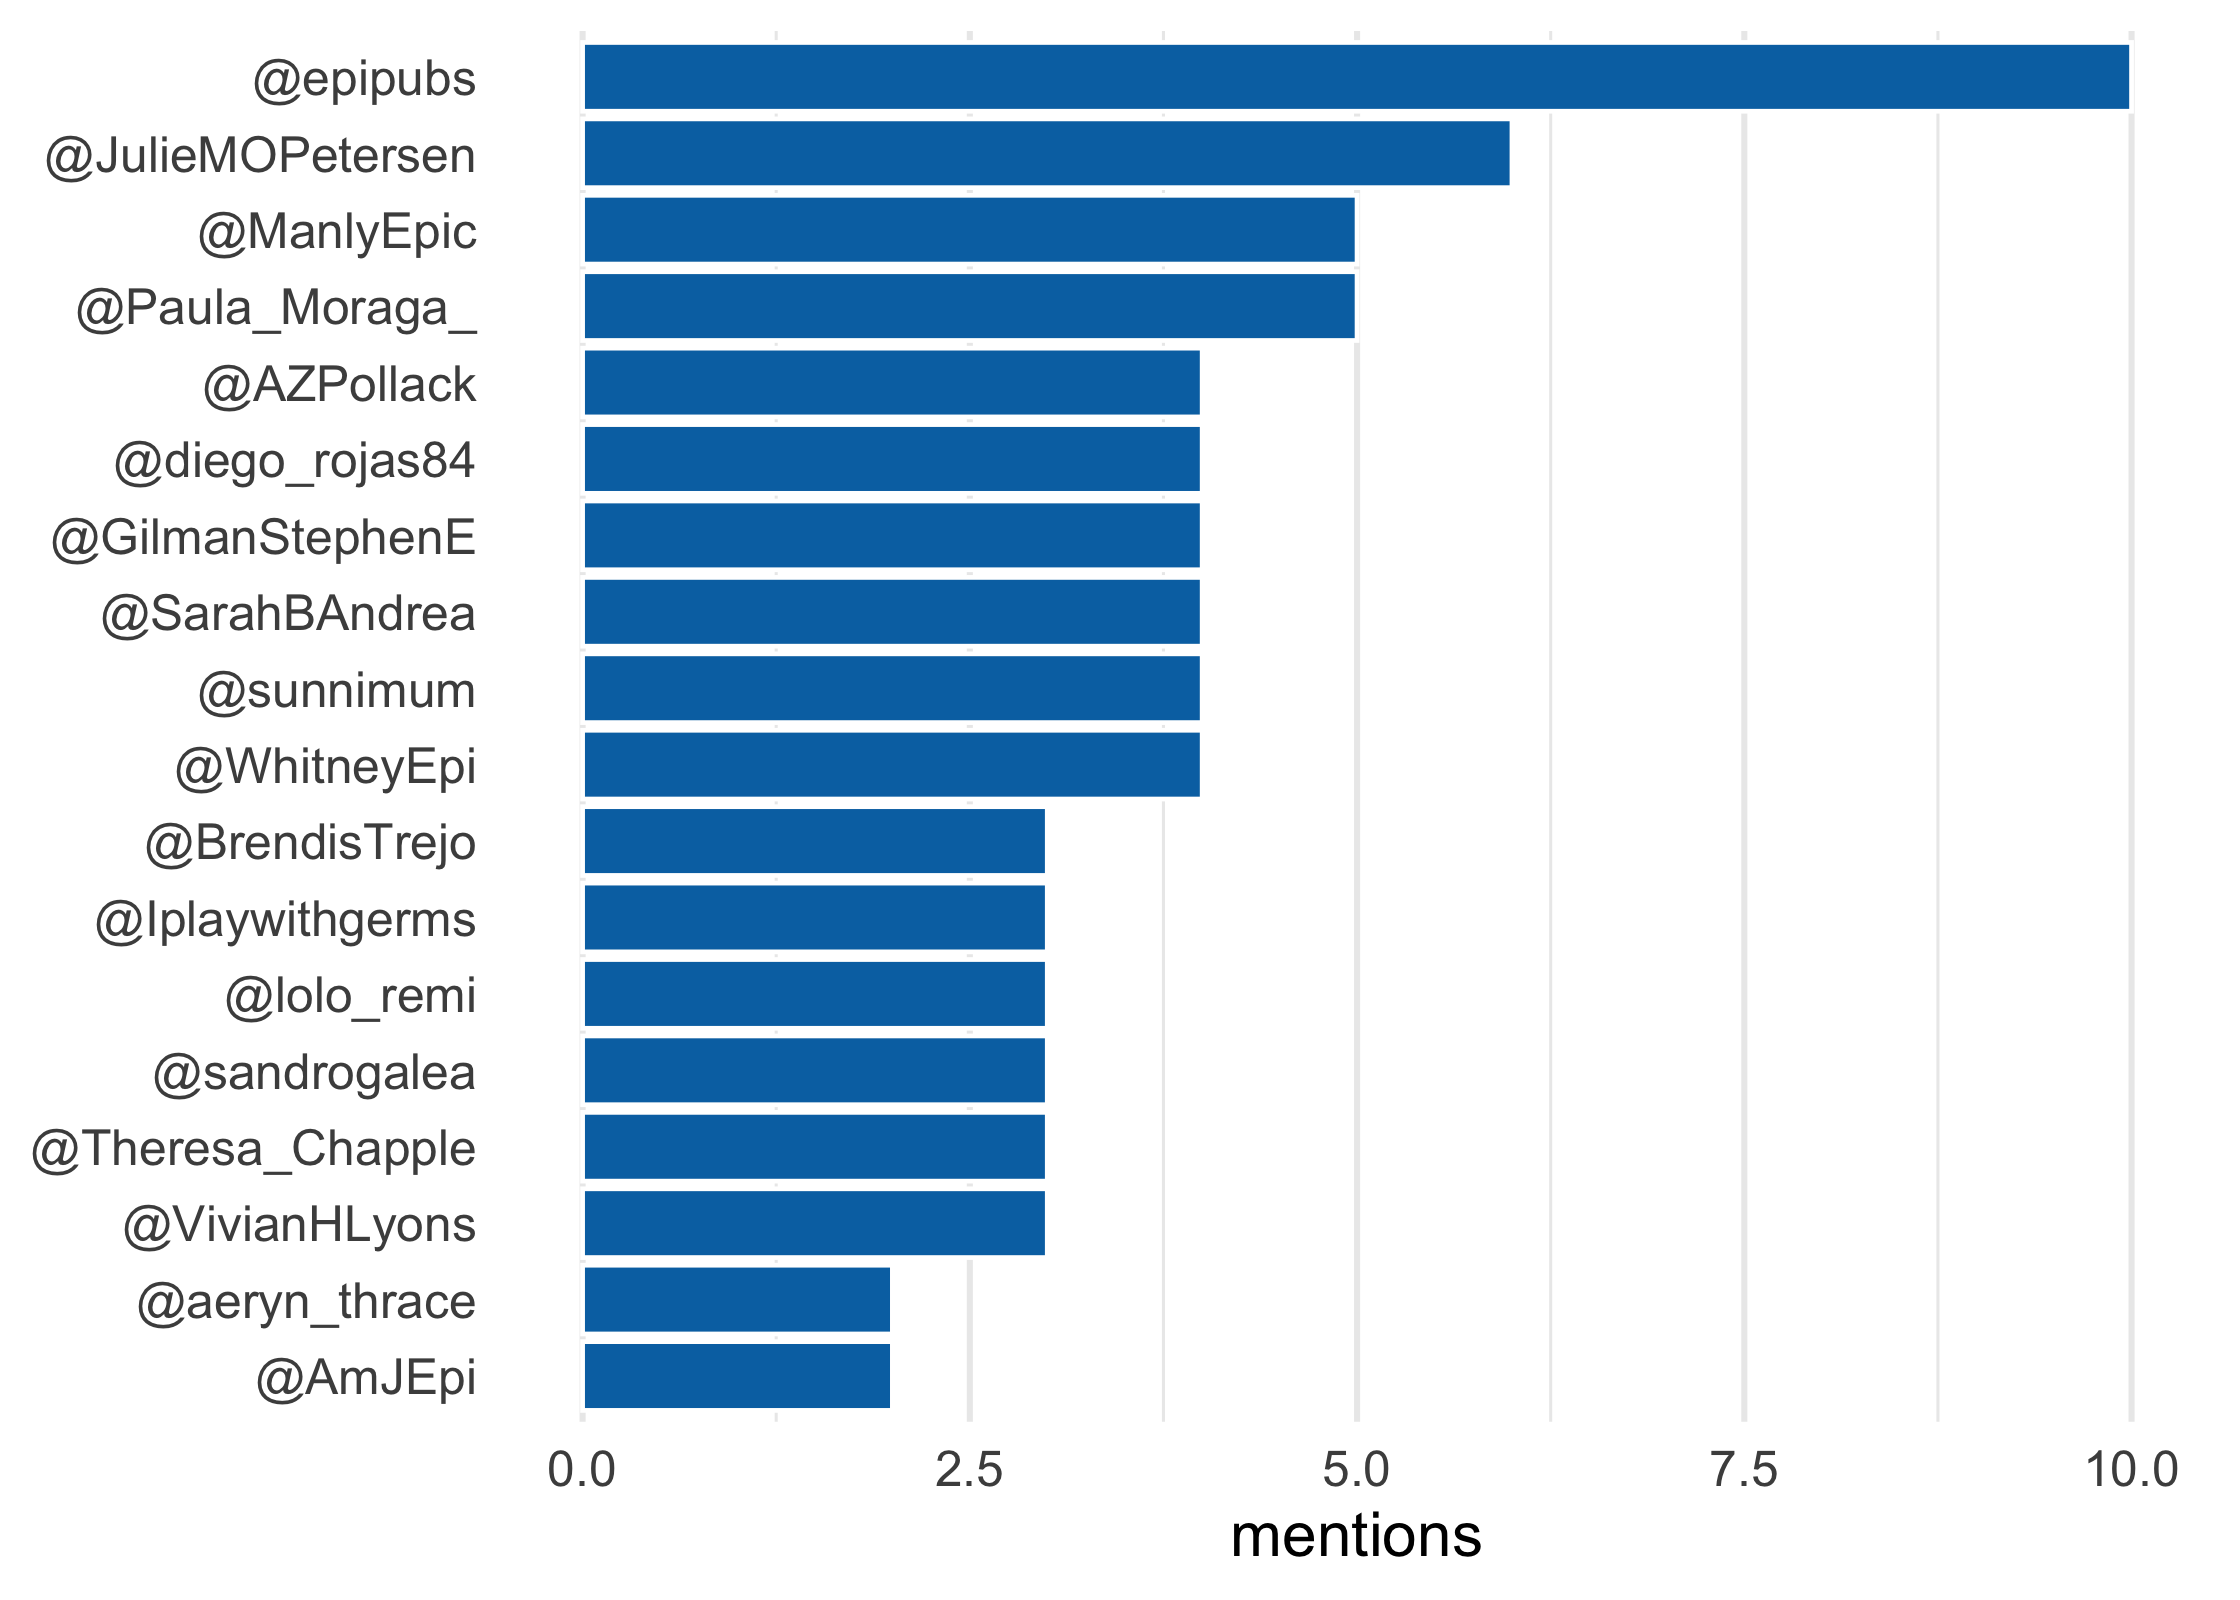
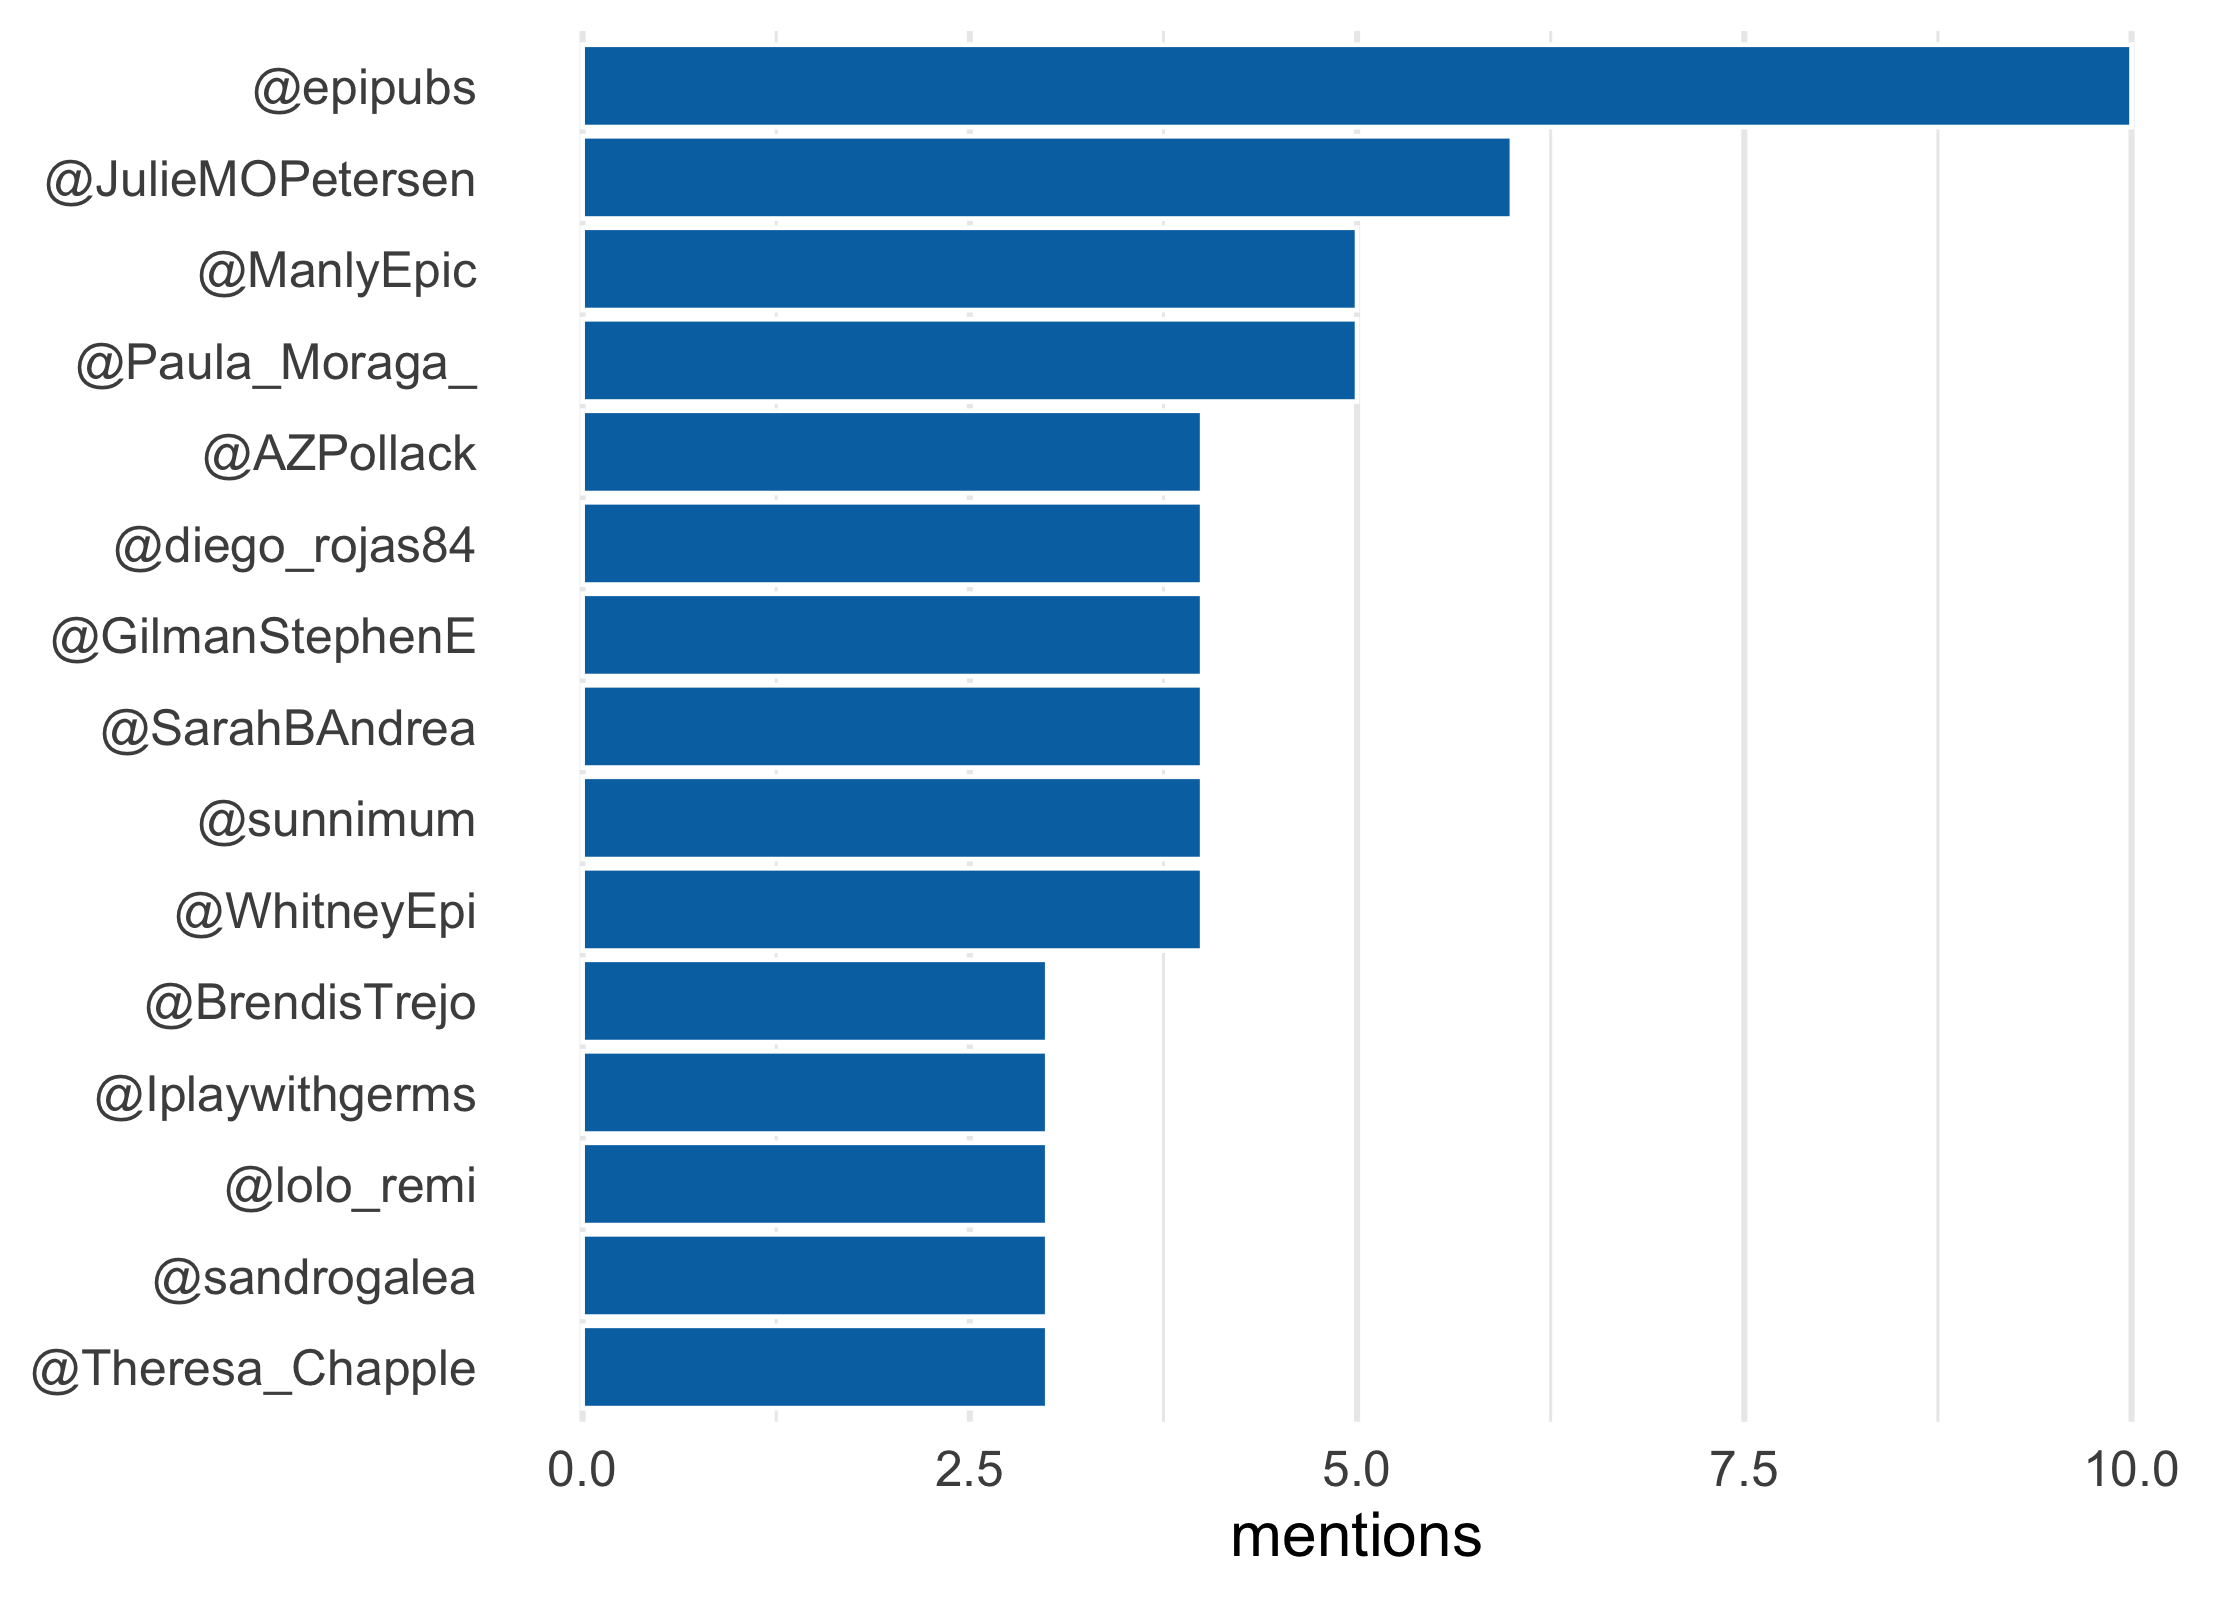
update slides

diff --git a/rtweet_tutorial/index.html b/rtweet_tutorial/index.html
@@ -18,7 +18,7 @@ class: center, middle, inverse, title-slide
 
 
 
-class: inverse-ns, center
+class: inverse, center
 
 # Getting started
 ## *Log in* to the SER Twitter account
@@ -59,6 +59,9 @@ library(ser)
 # add tokens with usethis::edit_r_environ()
 ser_token()
 ```
+
+--
+
 
 ```
 ## &lt;Token&gt;
@@ -123,7 +126,7 @@ ser_mentions %&gt;%
 
 # Get mentions
 
-&lt;img src="index_files/figure-html/unnamed-chunk-5-1.png" style="display: block; margin: auto;" /&gt;
+&lt;img src="index_files/figure-html/unnamed-chunk-6-1.png" style="display: block; margin: auto;" /&gt;
 
 ---
 
@@ -168,11 +171,45 @@ mentioners &lt;- lookup_tweets(
 
 
 ```r
-mentioners %&gt;% 
+freq_mentioners &lt;- mentioners %&gt;% 
   count(screen_name) %&gt;% 
   arrange(desc(n)) %&gt;% 
-  head(18) %&gt;% 
-  mutate(screen_name = paste0("@", screen_name)) %&gt;% 
+  head(15) %&gt;% 
+  mutate(screen_name = paste0("@", screen_name))
+```
+
+---
+
+# Most frequent mentioners
+
+
+```
+## # A tibble: 15 x 2
+##    screen_name          n
+##    &lt;chr&gt;            &lt;int&gt;
+##  1 @epipubs            10
+##  2 @JulieMOPetersen     6
+##  3 @ManlyEpic           5
+##  4 @Paula_Moraga_       5
+##  5 @AZPollack           4
+##  6 @diego_rojas84       4
+##  7 @GilmanStephenE      4
+##  8 @SarahBAndrea        4
+##  9 @sunnimum            4
+## 10 @WhitneyEpi          4
+## 11 @BrendisTrejo        3
+## 12 @Iplaywithgerms      3
+## 13 @lolo_remi           3
+## 14 @sandrogalea         3
+## 15 @Theresa_Chapple     3
+```
+
+---
+# Most frequent mentioners
+
+
+```r
+freq_mentioners %&gt;% 
   ggplot(aes(fct_rev(fct_inorder(screen_name)), n)) +
     geom_col(col = "white", fill = "#0072B2") +
     coord_flip() +
@@ -239,7 +276,7 @@ ser_tweets %&gt;%
 
 # Get SER tweets
 
-&lt;img src="index_files/figure-html/unnamed-chunk-9-1.png" style="display: block; margin: auto;" /&gt;
+&lt;img src="index_files/figure-html/unnamed-chunk-11-1.png" style="display: block; margin: auto;" /&gt;
 
 ---
 
@@ -315,18 +352,23 @@ post_favorite("1025872214472544256", token = ser_token())
 post_follow("malco_barrett", token = ser_token())
 
 # send a direct message
-post_message("you can even send a private message", "malco_barrett", token = ser_token())
+post_message(
+  "you can even send a private message", 
+  user = "malco_barrett", 
+  token = ser_token()
+)
 ```
 
 ---
+
 class: inverse, center
 
-# rtweet vignettes
+# rtweet resources
 ## [Obtaining and using access tokens](https://rtweet.info/articles/auth.html)
 ## [Intro to rtweet: Collecting Twitter Data](https://rtweet.info/articles/intro.html)
 ## [Live streaming tweets](https://rtweet.info/articles/stream.html)
 
-## Soon to come: rtweet cheatsheet
+## [21 Recipes for Mining Twitter Data with rtweet](https://rud.is/books/21-recipes/)
     </textarea>
 <style data-target="print-only">@media screen {.remark-slide-container{display:block;}.remark-slide-scaler{box-shadow:none;}}</style>
 <script src="https://remarkjs.com/downloads/remark-latest.min.js"></script>

diff --git a/ser_package/index.html b/ser_package/index.html
@@ -45,6 +45,8 @@ class: inverse
 
 ---
 
+
+
 class: inverse
 
 ## *2019-2020 Projects*
@@ -55,6 +57,12 @@ class: inverse
 4. Tweet Dashboard
 4. Maintenance
 5. Server deployment
+
+---
+
+class: inverse, center, middle
+
+# **Let's take a look at ser**
 
 ---
 
@@ -110,7 +118,7 @@ pr_finish()
 
 class: inverse, center, middle
 
-# **How to contribute**
+# **Example: updating the README**
 
 ---
 
@@ -118,14 +126,14 @@ class: inverse
 
 # *Workflow*
 
-1. Create your script (`ser::use_ser_script()`)
-2. Submit a pull request (`usethis::pr_*()`)
+1. Create your script (`use_ser_script()`)
+2. Submit a pull request (`pr_*()`)
 3. Malcolm reviews 
-4. Malcolm deploys
+4. Malcolm deploys (`source_ser()`)
 
 --
 
-## **I'll help you on any part of these!**
+### **I'll help you on any part of these!**
 
 ---
 
@@ -138,7 +146,7 @@ class: inverse, center, middle
 class: inverse, center, middle
 
 # **R Packages**
-## http://r-pkgs.had.co.nz/
+## [R Packages: The Book!](http://r-pkgs.had.co.nz/)
 
 
 ---
@@ -146,7 +154,8 @@ class: inverse, center, middle
 class: inverse, center, middle
 
 # **git and GitHub**
-## http://happygitwithr.com
+## [Happy git with R](http://happygitwithr.com)
+## [usethis PR Helpers vignette](https://usethis.r-lib.org/articles/articles/pr-functions.html)
 
 ---
 
